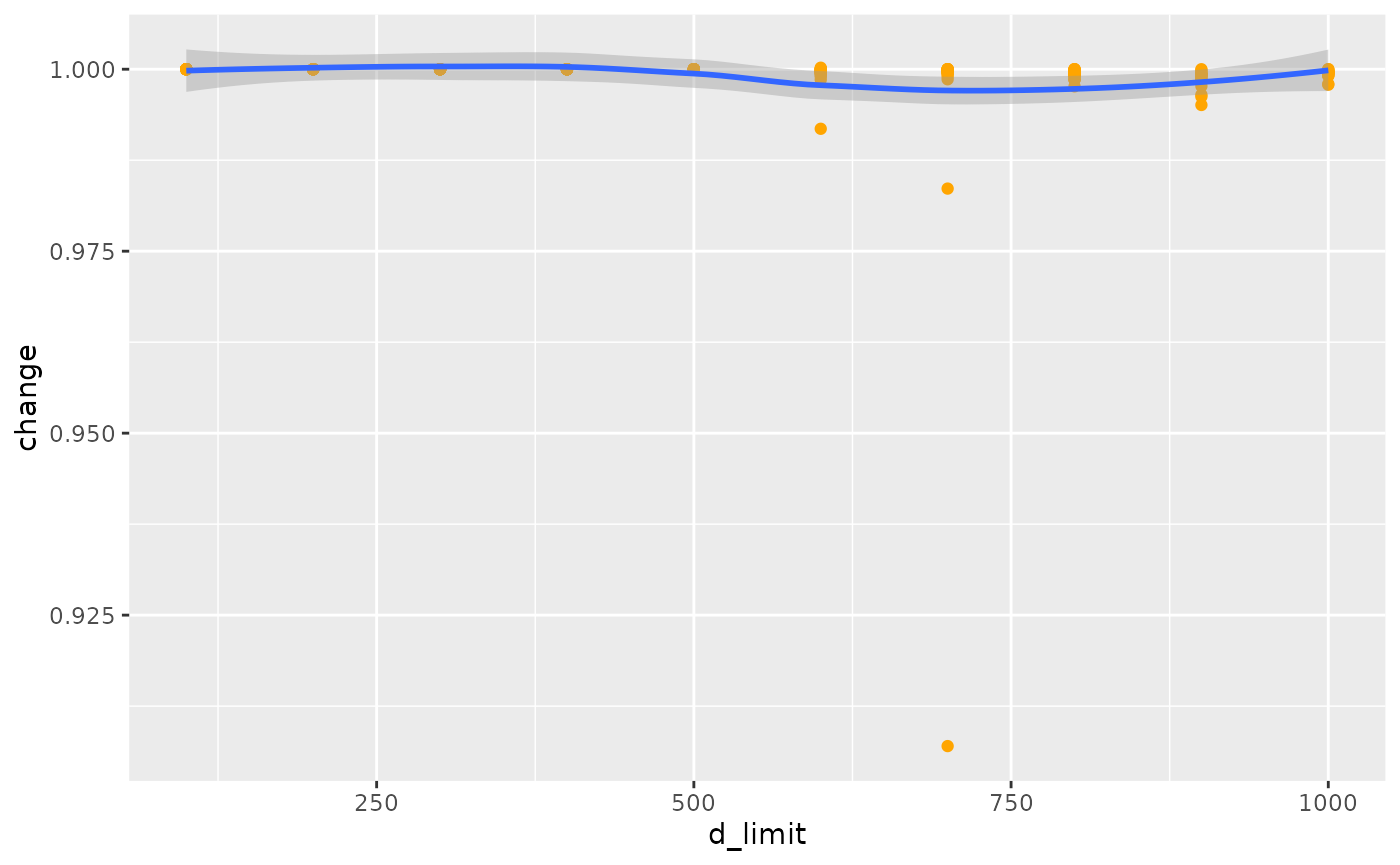
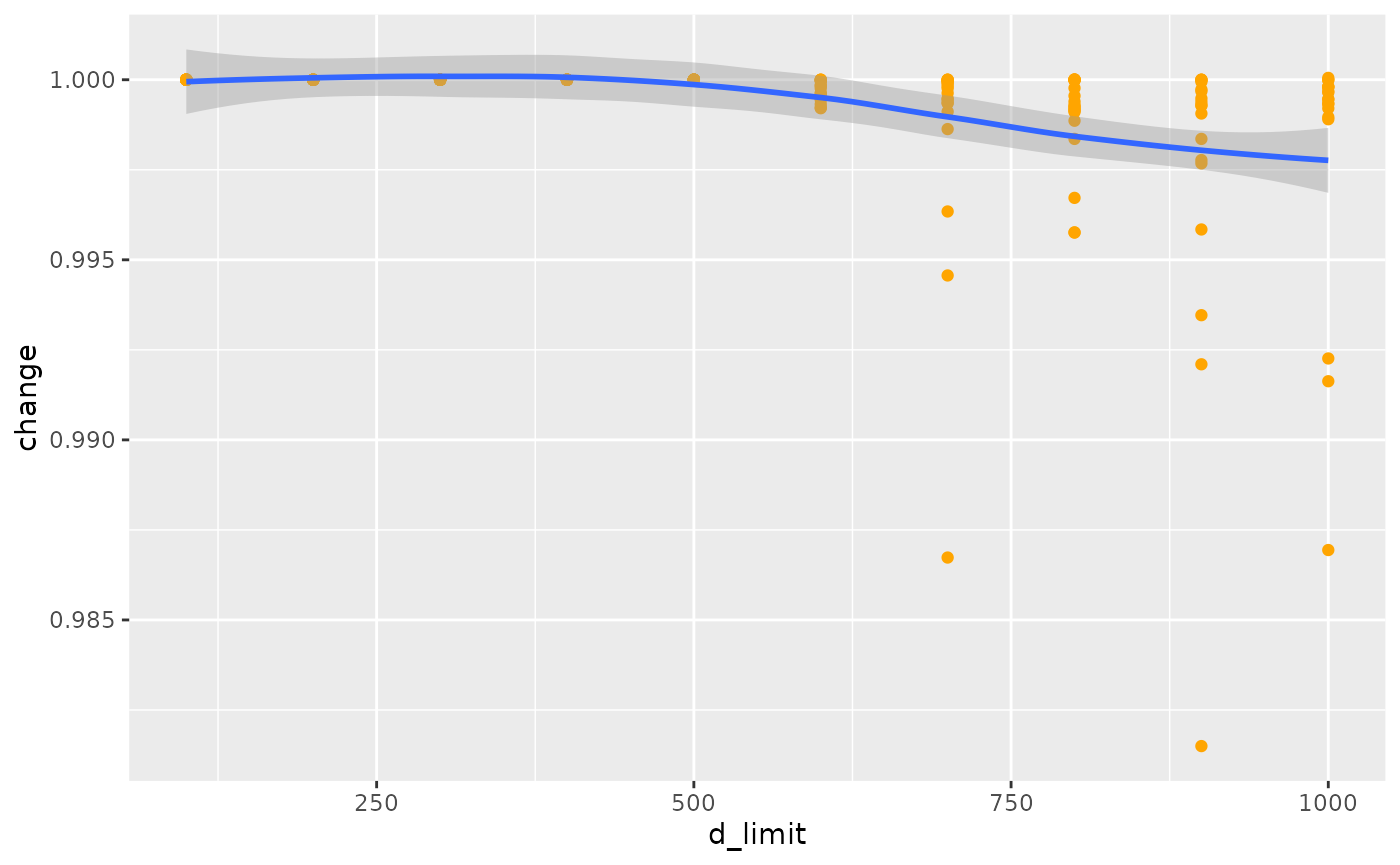
Deploying to gh-pages from @ ATFutures/gtfs-router@e4058c1d5a07aed8d57ad9598ce9860d0f3c3610 🚀

diff --git a/docs/articles/transfers.html b/docs/articles/transfers.html
@@ -33,7 +33,7 @@
       </button>
       <span class="navbar-brand">
         <a class="navbar-link" href="../index.html">gtfsrouter</a>
-        <span class="version label label-default" data-toggle="tooltip" data-placement="bottom" title="">0.0.5.120</span>
+        <span class="version label label-default" data-toggle="tooltip" data-placement="bottom" title="">0.0.5.121</span>
       </span>
     </div>
 
@@ -447,7 +447,7 @@
 <span>    <span class="fu"><a href="https://ggplot2.tidyverse.org/reference/scale_continuous.html" class="external-link">scale_y_log10</a></span> <span class="op">(</span><span class="op">)</span> <span class="op">+</span></span>
 <span>    <span class="fu"><a href="https://ggplot2.tidyverse.org/reference/labs.html" class="external-link">xlab</a></span> <span class="op">(</span><span class="st">"time difference (minutes)"</span><span class="op">)</span></span></code></pre></div>
 <p><img src="transfers_files/figure-html/plot1-1.png" width="700"></p>
-<p>And these additional transfer possibilities can make a significant difference to estimated travel times. Note, however, that the travel times only changed for 539 stations, while the value of <code>nsame</code> value recording numbers of stations for which travel times did not change was 3,695. Travel times may also increase as additional transfers may be used to reduce numbers of connecting services required for a particular trip, and the algorithm generally searches for connections with minimal numbers of transfers.</p>
+<p>And these additional transfer possibilities can make a significant difference to estimated travel times. Note, however, that the travel times only changed for 706 stations, while the value of <code>nsame</code> value recording numbers of stations for which travel times did not change was 3,417. Travel times may also increase as additional transfers may be used to reduce numbers of connecting services required for a particular trip, and the algorithm generally searches for connections with minimal numbers of transfers.</p>
 <p>The following code the quantifies the overall effect of these reductions in travel times, measured as the linear reduction in comparison with travel times calculated using the original transfers table provided with the feed. The function also returns the proportion of all stations for which travel times were affected by the modified transfer table.</p>
 <div class="sourceCode" id="cb42"><pre class="downlit sourceCode r">
 <code class="sourceCode R"><span><span class="va">transfer_difference</span> <span class="op">&lt;-</span> <span class="kw">function</span> <span class="op">(</span><span class="va">gtfs</span>,</span>
@@ -514,7 +514,7 @@
 <span>    <span class="fu"><a href="https://ggplot2.tidyverse.org/reference/geom_point.html" class="external-link">geom_point</a></span> <span class="op">(</span>pch <span class="op">=</span> <span class="fl">19</span>, col <span class="op">=</span> <span class="st">"orange"</span><span class="op">)</span> <span class="op">+</span></span>
 <span>    <span class="fu"><a href="https://ggplot2.tidyverse.org/reference/geom_smooth.html" class="external-link">geom_smooth</a></span> <span class="op">(</span>method <span class="op">=</span> <span class="st">"loess"</span>, formula <span class="op">=</span> <span class="st">"y ~ x"</span><span class="op">)</span></span></code></pre></div>
 <p><img src="transfers_files/figure-html/transfer_d_limit_results-1.png" width="700"></p>
-<p>That result shows that travel times do decrease with increasing limits of maximal transfer distance, although the overall effect is very minimal. The object <code>d</code> also records the proportion of station pairs for which modifications to the transfers table actually changed travel times, which in this case amounts to a mean value of 0.0069, clearly revealing that very few trips actually change.</p>
+<p>That result shows that travel times do decrease with increasing limits of maximal transfer distance, although the overall effect is very minimal. The object <code>d</code> also records the proportion of station pairs for which modifications to the transfers table actually changed travel times, which in this case amounts to a mean value of 0.0065, clearly revealing that very few trips actually change.</p>
 <div class="section level3">
 <h3 id="a-more-realistic-example">A more realistic example<a class="anchor" aria-label="anchor" href="#a-more-realistic-example"></a>
 </h3>

diff --git a/docs/articles/gtfsrouter.html b/docs/articles/gtfsrouter.html
@@ -33,7 +33,7 @@
       </button>
       <span class="navbar-brand">
         <a class="navbar-link" href="../index.html">gtfsrouter</a>
-        <span class="version label label-default" data-toggle="tooltip" data-placement="bottom" title="">0.0.5.120</span>
+        <span class="version label label-default" data-toggle="tooltip" data-placement="bottom" title="">0.0.5.121</span>
       </span>
     </div>
 
@@ -95,7 +95,7 @@
 <p>The one thing neither of these packages enable is the use of GTFS data for transit routing. The <code>gtfsrouter</code> package enables both one-to-one and one-to-many routing. Functionality is demonstrated here through the sample data set included with the package, provided by the “Verkehrsverbund Berlin-Brandenburg” (VBB; or Transport Network Berlin-Brandenburg). The <code>berlin_gtfs</code> data represents a reduced version of the full GTFS data, containing only six tables, and a timetable reduced to the single hour between 12:00-13:00. Like all GTFS software including <a href="https://github.com/r-transit/tidytransit" class="external-link"><code>tidytransit</code></a>, this package is designed to work directly with GTFS data in <code>.zip</code>-archived format, and so includes a helper function, <code><a href="../reference/berlin_gtfs_to_zip.html">berlin_gtfs_to_zip()</a></code>, which exports the internal data set to a locally-stored <code>.zip</code> archive in the <code><a href="https://rdrr.io/r/base/tempfile.html" class="external-link">tempdir()</a></code> of the current <strong>R</strong> session. These data can be exported and re-imported with:</p>
 <div class="sourceCode" id="cb1"><pre class="downlit sourceCode r">
 <code class="sourceCode R"><span><span class="fu"><a href="../reference/berlin_gtfs_to_zip.html">berlin_gtfs_to_zip</a></span><span class="op">(</span><span class="op">)</span></span></code></pre></div>
-<pre><code><span><span class="co">## [1] "/tmp/Rtmpgf1x5g/vbb.zip"</span></span></code></pre>
+<pre><code><span><span class="co">## [1] "/tmp/RtmpoKuBge/vbb.zip"</span></span></code></pre>
 <div class="sourceCode" id="cb3"><pre class="downlit sourceCode r">
 <code class="sourceCode R"><span><span class="va">f</span> <span class="op">&lt;-</span> <span class="fu"><a href="https://rdrr.io/r/base/file.path.html" class="external-link">file.path</a></span> <span class="op">(</span><span class="fu"><a href="https://rdrr.io/r/base/tempfile.html" class="external-link">tempdir</a></span> <span class="op">(</span><span class="op">)</span>, <span class="st">"vbb.zip"</span><span class="op">)</span></span>
 <span><span class="fu"><a href="https://rdrr.io/r/base/files.html" class="external-link">file.exists</a></span> <span class="op">(</span><span class="va">f</span><span class="op">)</span></span></code></pre></div>
@@ -286,7 +286,7 @@
 <span>                day <span class="op">=</span> <span class="st">"Sunday"</span><span class="op">)</span></span>
 <span>    <span class="op">)</span></span></code></pre></div>
 <pre><code><span><span class="co">##    user  system elapsed </span></span>
-<span><span class="co">##   0.045   0.000   0.046</span></span></code></pre>
+<span><span class="co">##   0.067   0.000   0.067</span></span></code></pre>
 <div class="sourceCode" id="cb14"><pre class="downlit sourceCode r">
 <code class="sourceCode R"><span><span class="fu"><a href="https://rdrr.io/r/base/names.html" class="external-link">names</a></span> <span class="op">(</span><span class="va">gtfs</span><span class="op">)</span></span></code></pre></div>
 <pre><code><span><span class="co">## [1] "calendar"   "routes"     "trips"      "stop_times" "stops"     </span></span>
@@ -304,7 +304,7 @@
 <span>                         to <span class="op">=</span> <span class="va">to</span>,</span>
 <span>                         start_time <span class="op">=</span> <span class="st">"12:00:00"</span><span class="op">)</span><span class="op">)</span></span></code></pre></div>
 <pre><code><span><span class="co">##    user  system elapsed </span></span>
-<span><span class="co">##   0.037   0.000   0.037</span></span></code></pre>
+<span><span class="co">##   0.050   0.000   0.049</span></span></code></pre>
 <p>Note that the <code>day</code> parameter is used to extract the timetable, after which it is no longer required in the actual call to <code><a href="../reference/gtfs_route.html">gtfs_route()</a></code>.</p>
 </div>
 <div class="section level3">

diff --git a/docs/reference/gtfs_transfer_table.html b/docs/reference/gtfs_transfer_table.html
@@ -17,7 +17,7 @@
       </button>
       <span class="navbar-brand">
         <a class="navbar-link" href="../index.html">gtfsrouter</a>
-        <span class="version label label-default" data-toggle="tooltip" data-placement="bottom" title="">0.0.5.120</span>
+        <span class="version label label-default" data-toggle="tooltip" data-placement="bottom" title="">0.0.5.121</span>
       </span>
     </div>
 
@@ -112,7 +112,7 @@ throughout the underlying street network. If this is not provided as the
     <div id="ref-examples">
     <h2>Examples</h2>
     <div class="sourceCode"><pre class="sourceCode r"><code><span class="r-in"><span><span class="fu"><a href="berlin_gtfs_to_zip.html">berlin_gtfs_to_zip</a></span> <span class="op">(</span><span class="op">)</span></span></span>
-<span class="r-out co"><span class="r-pr">#&gt;</span> [1] "/tmp/Rtmp1CRfC8/vbb.zip"</span>
+<span class="r-out co"><span class="r-pr">#&gt;</span> [1] "/tmp/RtmpeNQ1a9/vbb.zip"</span>
 <span class="r-in"><span><span class="va">f</span> <span class="op">&lt;-</span> <span class="fu"><a href="https://rdrr.io/r/base/file.path.html" class="external-link">file.path</a></span> <span class="op">(</span><span class="fu"><a href="https://rdrr.io/r/base/tempfile.html" class="external-link">tempdir</a></span> <span class="op">(</span><span class="op">)</span>, <span class="st">"vbb.zip"</span><span class="op">)</span></span></span>
 <span class="r-in"><span><span class="va">g</span> <span class="op">&lt;-</span> <span class="fu"><a href="extract_gtfs.html">extract_gtfs</a></span> <span class="op">(</span><span class="va">f</span>, quiet <span class="op">=</span> <span class="cn">TRUE</span><span class="op">)</span></span></span>
 <span class="r-in"><span><span class="va">g</span> <span class="op">&lt;-</span> <span class="fu">gtfs_transfer_table</span> <span class="op">(</span><span class="va">g</span>, d_limit <span class="op">=</span> <span class="fl">200</span><span class="op">)</span></span></span>

diff --git a/docs/reference/gtfs_route.html b/docs/reference/gtfs_route.html
@@ -18,7 +18,7 @@ a specified time."><!-- mathjax --><script src="https://cdnjs.cloudflare.com/aja
       </button>
       <span class="navbar-brand">
         <a class="navbar-link" href="../index.html">gtfsrouter</a>
-        <span class="version label label-default" data-toggle="tooltip" data-placement="bottom" title="">0.0.5.120</span>
+        <span class="version label label-default" data-toggle="tooltip" data-placement="bottom" title="">0.0.5.121</span>
       </span>
     </div>
 
@@ -182,7 +182,7 @@ can be calculated by setting <code>earliest_arrival = FALSE</code>.</p>
     <div id="ref-examples">
     <h2>Examples</h2>
     <div class="sourceCode"><pre class="sourceCode r"><code><span class="r-in"><span><span class="fu"><a href="berlin_gtfs_to_zip.html">berlin_gtfs_to_zip</a></span> <span class="op">(</span><span class="op">)</span> <span class="co"># Write sample feed from Berlin, Germany to tempdir</span></span></span>
-<span class="r-out co"><span class="r-pr">#&gt;</span> [1] "/tmp/Rtmp1CRfC8/vbb.zip"</span>
+<span class="r-out co"><span class="r-pr">#&gt;</span> [1] "/tmp/RtmpeNQ1a9/vbb.zip"</span>
 <span class="r-in"><span><span class="va">f</span> <span class="op">&lt;-</span> <span class="fu"><a href="https://rdrr.io/r/base/file.path.html" class="external-link">file.path</a></span> <span class="op">(</span><span class="fu"><a href="https://rdrr.io/r/base/tempfile.html" class="external-link">tempdir</a></span> <span class="op">(</span><span class="op">)</span>, <span class="st">"vbb.zip"</span><span class="op">)</span> <span class="co"># name of feed</span></span></span>
 <span class="r-in"><span><span class="va">gtfs</span> <span class="op">&lt;-</span> <span class="fu"><a href="extract_gtfs.html">extract_gtfs</a></span> <span class="op">(</span><span class="va">f</span><span class="op">)</span></span></span>
 <span class="r-msg co"><span class="r-pr">#&gt;</span> ▶<span style="color: #00BB00;"> Unzipping GTFS archive</span></span>

diff --git a/docs/articles/traveltimes.html b/docs/articles/traveltimes.html
@@ -33,7 +33,7 @@
       </button>
       <span class="navbar-brand">
         <a class="navbar-link" href="../index.html">gtfsrouter</a>
-        <span class="version label label-default" data-toggle="tooltip" data-placement="bottom" title="">0.0.5.120</span>
+        <span class="version label label-default" data-toggle="tooltip" data-placement="bottom" title="">0.0.5.121</span>
       </span>
     </div>
 
@@ -86,7 +86,7 @@
 <div class="sourceCode" id="cb1"><pre class="downlit sourceCode r">
 <code class="sourceCode R"><span><span class="kw"><a href="https://rdrr.io/r/base/library.html" class="external-link">library</a></span> <span class="op">(</span><span class="va"><a href="https://github.com/ATFutures/gtfs-router" class="external-link">gtfsrouter</a></span><span class="op">)</span></span>
 <span><span class="fu"><a href="../reference/berlin_gtfs_to_zip.html">berlin_gtfs_to_zip</a></span> <span class="op">(</span><span class="op">)</span></span></code></pre></div>
-<pre><code><span><span class="co">## [1] "/tmp/RtmpDvodIb/vbb.zip"</span></span></code></pre>
+<pre><code><span><span class="co">## [1] "/tmp/RtmpIw3Bc5/vbb.zip"</span></span></code></pre>
 <div class="sourceCode" id="cb3"><pre class="downlit sourceCode r">
 <code class="sourceCode R"><span><span class="va">f</span> <span class="op">&lt;-</span> <span class="fu"><a href="https://rdrr.io/r/base/file.path.html" class="external-link">file.path</a></span> <span class="op">(</span><span class="fu"><a href="https://rdrr.io/r/base/tempfile.html" class="external-link">tempdir</a></span> <span class="op">(</span><span class="op">)</span>, <span class="st">"vbb.zip"</span><span class="op">)</span></span>
 <span><span class="va">gtfs</span> <span class="op">&lt;-</span> <span class="fu"><a href="../reference/extract_gtfs.html">extract_gtfs</a></span> <span class="op">(</span><span class="va">f</span>, quiet <span class="op">=</span> <span class="cn">TRUE</span><span class="op">)</span></span>

diff --git a/docs/reference/berlin_gtfs.html b/docs/reference/berlin_gtfs.html
@@ -23,7 +23,7 @@ characters.'><!-- mathjax --><script src="https://cdnjs.cloudflare.com/ajax/libs
       </button>
       <span class="navbar-brand">
         <a class="navbar-link" href="../index.html">gtfsrouter</a>
-        <span class="version label label-default" data-toggle="tooltip" data-placement="bottom" title="">0.0.5.120</span>
+        <span class="version label label-default" data-toggle="tooltip" data-placement="bottom" title="">0.0.5.121</span>
       </span>
     </div>
 
@@ -96,7 +96,7 @@ for which no route is possible return <code>NULL</code>.</p>
     <div id="ref-examples">
     <h2>Examples</h2>
     <div class="sourceCode"><pre class="sourceCode r"><code><span class="r-in"><span><span class="fu"><a href="berlin_gtfs_to_zip.html">berlin_gtfs_to_zip</a></span> <span class="op">(</span><span class="op">)</span> <span class="co"># Write sample feed from Berlin, Germany to tempdir</span></span></span>
-<span class="r-out co"><span class="r-pr">#&gt;</span> [1] "/tmp/Rtmp1CRfC8/vbb.zip"</span>
+<span class="r-out co"><span class="r-pr">#&gt;</span> [1] "/tmp/RtmpeNQ1a9/vbb.zip"</span>
 <span class="r-in"><span><span class="va">f</span> <span class="op">&lt;-</span> <span class="fu"><a href="https://rdrr.io/r/base/file.path.html" class="external-link">file.path</a></span> <span class="op">(</span><span class="fu"><a href="https://rdrr.io/r/base/tempfile.html" class="external-link">tempdir</a></span> <span class="op">(</span><span class="op">)</span>, <span class="st">"vbb.zip"</span><span class="op">)</span> <span class="co"># name of feed</span></span></span>
 <span class="r-in"><span><span class="va">gtfs</span> <span class="op">&lt;-</span> <span class="fu"><a href="extract_gtfs.html">extract_gtfs</a></span> <span class="op">(</span><span class="va">f</span><span class="op">)</span></span></span>
 <span class="r-msg co"><span class="r-pr">#&gt;</span> ▶<span style="color: #00BB00;"> Unzipping GTFS archive</span></span>

diff --git a/docs/reference/gtfs_timetable.html b/docs/reference/gtfs_timetable.html
@@ -17,7 +17,7 @@
       </button>
       <span class="navbar-brand">
         <a class="navbar-link" href="../index.html">gtfsrouter</a>
-        <span class="version label label-default" data-toggle="tooltip" data-placement="bottom" title="">0.0.5.120</span>
+        <span class="version label label-default" data-toggle="tooltip" data-placement="bottom" title="">0.0.5.121</span>
       </span>
     </div>
 
@@ -126,7 +126,7 @@ that case will generally take longer.</p>
     <div id="ref-examples">
     <h2>Examples</h2>
     <div class="sourceCode"><pre class="sourceCode r"><code><span class="r-in"><span><span class="fu"><a href="berlin_gtfs_to_zip.html">berlin_gtfs_to_zip</a></span> <span class="op">(</span><span class="op">)</span> <span class="co"># Write sample feed from Berlin, Germany to tempdir</span></span></span>
-<span class="r-out co"><span class="r-pr">#&gt;</span> [1] "/tmp/Rtmp1CRfC8/vbb.zip"</span>
+<span class="r-out co"><span class="r-pr">#&gt;</span> [1] "/tmp/RtmpeNQ1a9/vbb.zip"</span>
 <span class="r-in"><span><span class="va">f</span> <span class="op">&lt;-</span> <span class="fu"><a href="https://rdrr.io/r/base/file.path.html" class="external-link">file.path</a></span> <span class="op">(</span><span class="fu"><a href="https://rdrr.io/r/base/tempfile.html" class="external-link">tempdir</a></span> <span class="op">(</span><span class="op">)</span>, <span class="st">"vbb.zip"</span><span class="op">)</span> <span class="co"># name of feed</span></span></span>
 <span class="r-in"><span><span class="va">gtfs</span> <span class="op">&lt;-</span> <span class="fu"><a href="extract_gtfs.html">extract_gtfs</a></span> <span class="op">(</span><span class="va">f</span><span class="op">)</span></span></span>
 <span class="r-msg co"><span class="r-pr">#&gt;</span> ▶<span style="color: #00BB00;"> Unzipping GTFS archive</span></span>

diff --git a/docs/reference/gtfs_traveltimes.html b/docs/reference/gtfs_traveltimes.html
@@ -18,7 +18,7 @@ other reachable station in a system."><!-- mathjax --><script src="https://cdnjs
       </button>
       <span class="navbar-brand">
         <a class="navbar-link" href="../index.html">gtfsrouter</a>
-        <span class="version label label-default" data-toggle="tooltip" data-placement="bottom" title="">0.0.5.120</span>
+        <span class="version label label-default" data-toggle="tooltip" data-placement="bottom" title="">0.0.5.121</span>
       </span>
     </div>
 
@@ -155,7 +155,7 @@ to reach all or most stations desired for a particular query, rather than set
     <div id="ref-examples">
     <h2>Examples</h2>
     <div class="sourceCode"><pre class="sourceCode r"><code><span class="r-in"><span><span class="fu"><a href="berlin_gtfs_to_zip.html">berlin_gtfs_to_zip</a></span> <span class="op">(</span><span class="op">)</span></span></span>
-<span class="r-out co"><span class="r-pr">#&gt;</span> [1] "/tmp/Rtmp1CRfC8/vbb.zip"</span>
+<span class="r-out co"><span class="r-pr">#&gt;</span> [1] "/tmp/RtmpeNQ1a9/vbb.zip"</span>
 <span class="r-in"><span><span class="va">f</span> <span class="op">&lt;-</span> <span class="fu"><a href="https://rdrr.io/r/base/file.path.html" class="external-link">file.path</a></span> <span class="op">(</span><span class="fu"><a href="https://rdrr.io/r/base/tempfile.html" class="external-link">tempdir</a></span> <span class="op">(</span><span class="op">)</span>, <span class="st">"vbb.zip"</span><span class="op">)</span></span></span>
 <span class="r-in"><span><span class="va">g</span> <span class="op">&lt;-</span> <span class="fu"><a href="extract_gtfs.html">extract_gtfs</a></span> <span class="op">(</span><span class="va">f</span><span class="op">)</span></span></span>
 <span class="r-msg co"><span class="r-pr">#&gt;</span> ▶<span style="color: #00BB00;"> Unzipping GTFS archive</span></span>

diff --git a/docs/reference/extract_gtfs.html b/docs/reference/extract_gtfs.html
@@ -17,7 +17,7 @@
       </button>
       <span class="navbar-brand">
         <a class="navbar-link" href="../index.html">gtfsrouter</a>
-        <span class="version label label-default" data-toggle="tooltip" data-placement="bottom" title="">0.0.5.120</span>
+        <span class="version label label-default" data-toggle="tooltip" data-placement="bottom" title="">0.0.5.121</span>
       </span>
     </div>
 
@@ -102,7 +102,7 @@ function to the two time columns of the "stop_times" table.</p>
     <div id="ref-examples">
     <h2>Examples</h2>
     <div class="sourceCode"><pre class="sourceCode r"><code><span class="r-in"><span><span class="fu"><a href="berlin_gtfs_to_zip.html">berlin_gtfs_to_zip</a></span> <span class="op">(</span><span class="op">)</span> <span class="co"># Write sample feed from Berlin, Germany to tempdir</span></span></span>
-<span class="r-out co"><span class="r-pr">#&gt;</span> [1] "/tmp/Rtmp1CRfC8/vbb.zip"</span>
+<span class="r-out co"><span class="r-pr">#&gt;</span> [1] "/tmp/RtmpeNQ1a9/vbb.zip"</span>
 <span class="r-in"><span><span class="va">f</span> <span class="op">&lt;-</span> <span class="fu"><a href="https://rdrr.io/r/base/file.path.html" class="external-link">file.path</a></span> <span class="op">(</span><span class="fu"><a href="https://rdrr.io/r/base/tempfile.html" class="external-link">tempdir</a></span> <span class="op">(</span><span class="op">)</span>, <span class="st">"vbb.zip"</span><span class="op">)</span> <span class="co"># name of feed</span></span></span>
 <span class="r-in"><span><span class="va">gtfs</span> <span class="op">&lt;-</span> <span class="fu">extract_gtfs</span> <span class="op">(</span><span class="va">f</span><span class="op">)</span></span></span>
 <span class="r-msg co"><span class="r-pr">#&gt;</span> ▶<span style="color: #00BB00;"> Unzipping GTFS archive</span></span>

diff --git a/docs/reference/summary.gtfs.html b/docs/reference/summary.gtfs.html
@@ -17,7 +17,7 @@
       </button>
       <span class="navbar-brand">
         <a class="navbar-link" href="../index.html">gtfsrouter</a>
-        <span class="version label label-default" data-toggle="tooltip" data-placement="bottom" title="">0.0.5.120</span>
+        <span class="version label label-default" data-toggle="tooltip" data-placement="bottom" title="">0.0.5.121</span>
       </span>
     </div>
 
@@ -81,7 +81,7 @@
     <div id="ref-examples">
     <h2>Examples</h2>
     <div class="sourceCode"><pre class="sourceCode r"><code><span class="r-in"><span><span class="fu"><a href="berlin_gtfs_to_zip.html">berlin_gtfs_to_zip</a></span> <span class="op">(</span><span class="op">)</span></span></span>
-<span class="r-out co"><span class="r-pr">#&gt;</span> [1] "/tmp/Rtmp1CRfC8/vbb.zip"</span>
+<span class="r-out co"><span class="r-pr">#&gt;</span> [1] "/tmp/RtmpeNQ1a9/vbb.zip"</span>
 <span class="r-in"><span><span class="va">f</span> <span class="op">&lt;-</span> <span class="fu"><a href="https://rdrr.io/r/base/file.path.html" class="external-link">file.path</a></span> <span class="op">(</span><span class="fu"><a href="https://rdrr.io/r/base/tempfile.html" class="external-link">tempdir</a></span> <span class="op">(</span><span class="op">)</span>, <span class="st">"vbb.zip"</span><span class="op">)</span></span></span>
 <span class="r-in"><span><span class="va">g</span> <span class="op">&lt;-</span> <span class="fu"><a href="extract_gtfs.html">extract_gtfs</a></span> <span class="op">(</span><span class="va">f</span><span class="op">)</span></span></span>
 <span class="r-msg co"><span class="r-pr">#&gt;</span> ▶<span style="color: #00BB00;"> Unzipping GTFS archive</span></span>

diff --git a/docs/authors.html b/docs/authors.html
@@ -17,7 +17,7 @@
       </button>
       <span class="navbar-brand">
         <a class="navbar-link" href="index.html">gtfsrouter</a>
-        <span class="version label label-default" data-toggle="tooltip" data-placement="bottom" title="">0.0.5.120</span>
+        <span class="version label label-default" data-toggle="tooltip" data-placement="bottom" title="">0.0.5.121</span>
       </span>
     </div>
 
@@ -74,13 +74,13 @@
 
     <p>Padgham M, Stepniak M (2022).
 <em>gtfsrouter: Routing with GTFS (General Transit Feed Specification) Data</em>.
-R package version 0.0.5.120, <a href="https://github.com/ATFutures/gtfs-router" class="external-link">https://github.com/ATFutures/gtfs-router</a>. 
+R package version 0.0.5.121, <a href="https://github.com/ATFutures/gtfs-router" class="external-link">https://github.com/ATFutures/gtfs-router</a>. 
 </p>
     <pre>@Manual{,
   title = {gtfsrouter: Routing with GTFS (General Transit Feed Specification) Data},
   author = {Mark Padgham and Marcin Stepniak},
   year = {2022},
-  note = {R package version 0.0.5.120},
+  note = {R package version 0.0.5.121},
   url = {https://github.com/ATFutures/gtfs-router},
 }</pre>
 

diff --git a/docs/reference/berlin_gtfs_to_zip.html b/docs/reference/berlin_gtfs_to_zip.html
@@ -18,7 +18,7 @@ a file named "vbb.zip" to tempdir().'><!-- mathjax --><script src="https://cdnjs
       </button>
       <span class="navbar-brand">
         <a class="navbar-link" href="../index.html">gtfsrouter</a>
-        <span class="version label label-default" data-toggle="tooltip" data-placement="bottom" title="">0.0.5.120</span>
+        <span class="version label label-default" data-toggle="tooltip" data-placement="bottom" title="">0.0.5.121</span>
       </span>
     </div>
 
